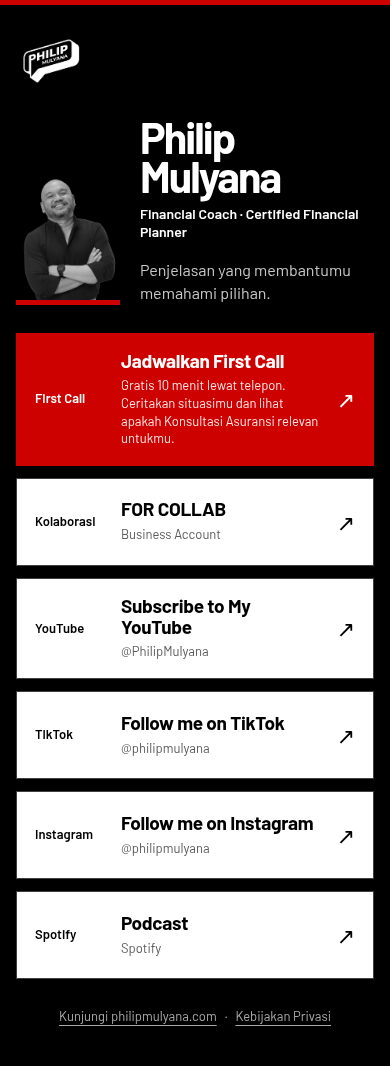
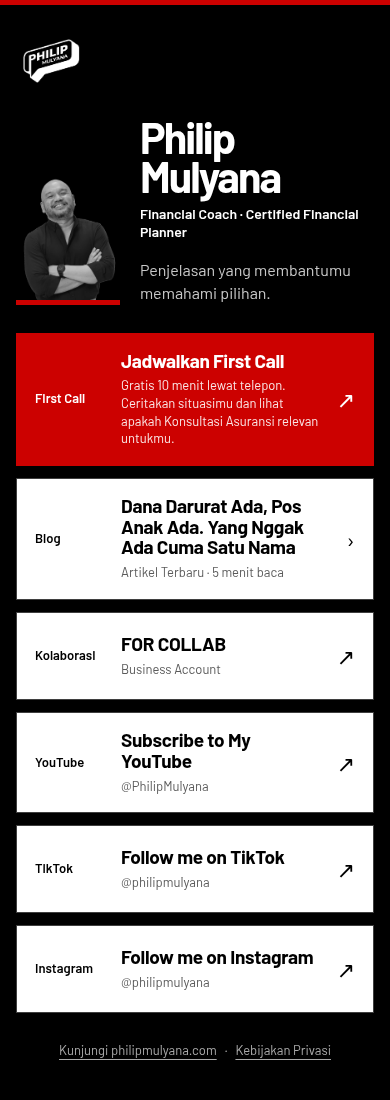
[verified] feat: show latest blog on links page

diff --git a/tests/links-latest-blog.test.js b/tests/links-latest-blog.test.js
@@ -1,0 +1,126 @@
+const test = require('node:test');
+const assert = require('node:assert/strict');
+const fs = require('node:fs');
+const path = require('node:path');
+const vm = require('node:vm');
+
+const root = path.resolve(__dirname, '..');
+const scriptPath = path.join(root, 'js', 'links.js');
+const linksSource = fs.existsSync(scriptPath) ? fs.readFileSync(scriptPath, 'utf8') : '';
+
+function jsonResponse(payload) {
+  return {
+    ok: true,
+    async json() {
+      return payload;
+    },
+  };
+}
+
+async function runUpdate({ payload, reject = false }) {
+  const link = { href: '/blog.html' };
+  const title = { textContent: 'Artikel Terbaru' };
+  const meta = { textContent: 'Blog & Insights' };
+  let domReadyHandler;
+  const document = {
+    addEventListener(event, handler) {
+      if (event === 'DOMContentLoaded') domReadyHandler = handler;
+    },
+    querySelector(selector) {
+      if (selector === '[data-latest-blog]') return link;
+      if (selector === '[data-latest-blog-title]') return title;
+      if (selector === '[data-latest-blog-meta]') return meta;
+      return null;
+    },
+  };
+  const fetch = async (url, options) => {
+    assert.equal(url, '/data/posts.json');
+    assert.equal(options?.cache, 'no-store');
+    if (reject) throw new Error('offline');
+    return jsonResponse(payload);
+  };
+  const context = vm.createContext({ document, fetch, Date, console });
+  vm.runInContext(linksSource, context);
+  assert.equal(typeof context.updateLatestBlog, 'function');
+  assert.equal(typeof domReadyHandler, 'function');
+  await context.updateLatestBlog();
+  return { link, title, meta };
+}
+
+test('shows the newest published blog even when posts.json is not ordered', async () => {
+  const result = await runUpdate({
+    payload: {
+      posts: [
+        { slug: 'artikel-lama', title: 'Artikel Lama', date: '2026-08-01', readingTime: '2 menit baca' },
+        { slug: 'artikel-terbaru', title: 'Artikel Terbaru Otomatis', date: '2026-09-18', readingTime: '5 menit baca' },
+      ],
+    },
+  });
+
+  assert.equal(result.link.href, '/blog/artikel-terbaru.html');
+  assert.equal(result.title.textContent, 'Artikel Terbaru Otomatis');
+  assert.equal(result.meta.textContent, 'Artikel Terbaru · 5 menit baca');
+});
+
+test('ignores a newer post when its slug is unsafe', async () => {
+  const result = await runUpdate({
+    payload: {
+      posts: [
+        { slug: 'javascript:alert-1', title: 'Tidak Aman', date: '2027-01-01' },
+        { slug: 'artikel-aman', title: 'Artikel Aman', date: '2026-09-18' },
+      ],
+    },
+  });
+
+  assert.equal(result.link.href, '/blog/artikel-aman.html');
+  assert.equal(result.title.textContent, 'Artikel Aman');
+  assert.equal(result.meta.textContent, 'Artikel Terbaru');
+});
+
+test('keeps the safe blog fallback when latest-post loading fails', async () => {
+  const result = await runUpdate({ payload: {}, reject: true });
+
+  assert.equal(result.link.href, '/blog.html');
+  assert.equal(result.title.textContent, 'Artikel Terbaru');
+  assert.equal(result.meta.textContent, 'Blog & Insights');
+});
+
+test('ignores malformed and impossible publication dates', async () => {
+  const result = await runUpdate({
+    payload: {
+      posts: [
+        { slug: 'tanggal-rusak', title: 'Tanggal Rusak', date: 'not-a-date' },
+        { slug: 'tanggal-mustahil', title: 'Tanggal Mustahil', date: '2027-02-30' },
+        { slug: 'tanggal-valid', title: 'Tanggal Valid', date: '2026-09-18' },
+      ],
+    },
+  });
+
+  assert.equal(result.link.href, '/blog/tanggal-valid.html');
+  assert.equal(result.title.textContent, 'Tanggal Valid');
+});
+
+test('keeps the fallback when every post has an invalid date', async () => {
+  const result = await runUpdate({
+    payload: { posts: [{ slug: 'tanpa-tanggal', title: 'Tanpa Tanggal', date: '' }] },
+  });
+
+  assert.equal(result.link.href, '/blog.html');
+  assert.equal(result.title.textContent, 'Artikel Terbaru');
+});
+
+test('ignores unreasonable title and reading-time values', async () => {
+  const result = await runUpdate({
+    payload: {
+      posts: [
+        { slug: 'judul-terlalu-panjang', title: 'X'.repeat(161), date: '2027-01-03' },
+        { slug: 'durasi-terlalu-panjang', title: 'Durasi Rusak', date: '2027-01-02', readingTime: '9'.repeat(41) },
+        { slug: 'konten-wajar', title: 'Konten Wajar', date: '2027-01-01', readingTime: '6 menit baca' },
+      ],
+    },
+  });
+
+  assert.equal(result.link.href, '/blog/konten-wajar.html');
+  assert.equal(result.title.textContent, 'Konten Wajar');
+  assert.equal(result.meta.textContent, 'Artikel Terbaru · 6 menit baca');
+});

diff --git a/links/index.html b/links/index.html
@@ -3,7 +3,7 @@
 <head>
   <meta charset="utf-8">
   <meta name="viewport" content="width=device-width, initial-scale=1">
-  <meta name="description" content="Link resmi Philip Mulyana untuk First Call, kolaborasi, video, media sosial, dan podcast.">
+  <meta name="description" content="Link resmi Philip Mulyana untuk First Call, artikel terbaru, kolaborasi, video, dan media sosial.">
   <meta name="robots" content="index, follow">
   <title>Philip Mulyana | Link Resmi</title>
   <link rel="canonical" href="https://philipmulyana.com/links/">
@@ -15,7 +15,7 @@
   <meta property="og:type" content="profile">
   <meta property="og:locale" content="id_ID">
   <meta property="og:title" content="Philip Mulyana | Link Resmi">
-  <meta property="og:description" content="First Call, kolaborasi, video, media sosial, dan podcast Philip Mulyana.">
+  <meta property="og:description" content="First Call, artikel terbaru, kolaborasi, video, dan media sosial Philip Mulyana.">
   <meta property="og:url" content="https://philipmulyana.com/links/">
   <meta property="og:image" content="https://philipmulyana.com/assets/homepage/profile-photo.webp">
   <script src="/js/sanitize-attribution.js"></script>
@@ -52,6 +52,12 @@
         <span class="link-arrow" aria-hidden="true">↗</span>
       </a>
 
+      <a class="link-item" href="/blog.html" data-latest-blog>
+        <span class="link-label">Blog</span>
+        <span class="link-copy"><strong data-latest-blog-title>Artikel Terbaru</strong><small data-latest-blog-meta>Blog &amp; Insights</small></span>
+        <span class="link-arrow" aria-hidden="true">›</span>
+      </a>
+
       <a class="link-item" href="https://wa.me/6281226604199">
         <span class="link-label">Kolaborasi</span>
         <span class="link-copy"><strong>FOR COLLAB</strong><small>Business Account</small></span>
@@ -76,11 +82,6 @@
         <span class="link-arrow" aria-hidden="true">↗</span>
       </a>
 
-      <a class="link-item" href="https://open.spotify.com/episode/5nSN7bUIm1I4uD7VmJt7EP">
-        <span class="link-label">Spotify</span>
-        <span class="link-copy"><strong>Podcast</strong><small>Spotify</small></span>
-        <span class="link-arrow" aria-hidden="true">↗</span>
-      </a>
     </nav>
 
     <footer class="links-footer">
@@ -91,5 +92,6 @@
   </main>
 
   <script src="/js/site.js" defer></script>
+  <script src="/js/links.js" defer></script>
 </body>
 </html>

diff --git a/js/links.js b/js/links.js
@@ -1,0 +1,58 @@
+function latestBlogTimestamp(post) {
+  return Date.parse(`${post.date}T00:00:00Z`);
+}
+
+function isValidPublicationDate(value) {
+  if (typeof value !== 'string') return false;
+  const match = /^(\d{4})-(\d{2})-(\d{2})$/.exec(value);
+  if (!match) return false;
+  const year = Number(match[1]);
+  const month = Number(match[2]);
+  const day = Number(match[3]);
+  const date = new Date(Date.UTC(year, month - 1, day));
+  return date.getUTCFullYear() === year
+    && date.getUTCMonth() === month - 1
+    && date.getUTCDate() === day;
+}
+
+function isSafePublishedPost(post) {
+  const title = typeof post?.title === 'string' ? post.title.trim() : '';
+  const readingTimeIsSafe = post?.readingTime == null || (
+    typeof post.readingTime === 'string'
+    && post.readingTime.trim().length <= 40
+  );
+  return Boolean(
+    post
+    && title
+    && title.length <= 160
+    && typeof post.slug === 'string'
+    && /^[a-z0-9-]+$/.test(post.slug)
+    && isValidPublicationDate(post.date)
+    && readingTimeIsSafe
+  );
+}
+
+async function updateLatestBlog() {
+  const link = document.querySelector('[data-latest-blog]');
+  const title = document.querySelector('[data-latest-blog-title]');
+  const meta = document.querySelector('[data-latest-blog-meta]');
+  if (!link || !title || !meta) return;
+
+  try {
+    const response = await fetch('/data/posts.json', { cache: 'no-store' });
+    if (!response.ok) return;
+    const data = await response.json();
+    const posts = Array.isArray(data.posts) ? data.posts.filter(isSafePublishedPost) : [];
+    const latest = posts.sort((a, b) => latestBlogTimestamp(b) - latestBlogTimestamp(a))[0];
+    if (!latest) return;
+
+    link.href = `/blog/${latest.slug}.html`;
+    title.textContent = latest.title.trim();
+    const readingTime = typeof latest.readingTime === 'string' ? latest.readingTime.trim() : '';
+    meta.textContent = readingTime ? `Artikel Terbaru · ${readingTime}` : 'Artikel Terbaru';
+  } catch {
+    // Keep the static /blog.html fallback when the local feed is unavailable.
+  }
+}
+
+document.addEventListener('DOMContentLoaded', updateLatestBlog);

diff --git a/assets/site/links.css b/assets/site/links.css
@@ -30,6 +30,7 @@ img{display:block;max-width:100%}
 .link-item-primary:hover{border-color:var(--white);background:#a90100}
 .link-label{font-size:13px;font-weight:600;line-height:1.2}
 .link-copy{display:block;min-width:0}
+.link-copy strong,.link-copy small{overflow-wrap:anywhere}
 .link-copy strong{display:block;font-size:19px;letter-spacing:-.015em;line-height:1.1}
 .link-copy small{display:block;margin-top:6px;color:#5b5b5b;font-size:13px;line-height:1.35}
 .link-item:hover .link-copy small{color:inherit;opacity:.82}

diff --git a/tests/test_links_page.py b/tests/test_links_page.py
@@ -75,17 +75,20 @@ class FirstPartyLinksPageContract(unittest.TestCase):
         stack = re.search(r'<nav\b[^>]*class="link-stack"[^>]*>.*?</nav>', self.html, re.S)
         self.assertIsNotNone(stack)
         assert stack is not None
-        actual = re.findall(r'<a\b[^>]*href="([^"]+)"[^>]*>.*?<strong>(.*?)</strong>', stack.group(0), re.S)
+        actual = re.findall(r'<a\b[^>]*href="([^"]+)"[^>]*>.*?<strong\b[^>]*>(.*?)</strong>', stack.group(0), re.S)
         actual = [(href, re.sub(r'<[^>]+>', '', label).strip()) for href, label in actual]
         expected = [
             ("https://calendly.com/philipmulyana/first-call", "Jadwalkan First Call"),
+            ("/blog.html", "Artikel Terbaru"),
             ("https://wa.me/6281226604199", "FOR COLLAB"),
             ("https://www.youtube.com/c/philipmulyana?sub_confirmation=1", "Subscribe to My YouTube"),
             ("https://www.tiktok.com/@philipmulyana", "Follow me on TikTok"),
             ("https://www.instagram.com/philipmulyana", "Follow me on Instagram"),
-            ("https://open.spotify.com/episode/5nSN7bUIm1I4uD7VmJt7EP", "Podcast"),
         ]
         self.assertEqual(actual, expected)
+        self.assertIn('data-latest-blog', stack.group(0))
+        self.assertIn('data-latest-blog-title', stack.group(0))
+        self.assertIn('data-latest-blog-meta', stack.group(0))
         self.assertEqual(self.html.count('data-forward-attribution'), 1)
         self.assertIn('href="/"', self.html)
 
@@ -97,6 +100,8 @@ class FirstPartyLinksPageContract(unittest.TestCase):
             "First call via WA call",
             "6282123391967",
             "Join philipmulyana on Linktree",
+            "Podcast",
+            "Spotify",
         )
         for token in forbidden:
             self.assertNotIn(token.lower(), self.html.lower())
@@ -113,6 +118,7 @@ class FirstPartyLinksPageContract(unittest.TestCase):
         self.assertLess(pixel, clarity)
         self.assertEqual(self.html.count('/js/pixel.js'), 1)
         self.assertIn('/js/site.js', self.html)
+        self.assertIn('/js/links.js', self.html)
         for dependency in (
             "cdn.tailwindcss.com", "fonts.googleapis.com", "linktr.ee/",
             "jquery", "bootstrap", "swiper", "slick",
@@ -129,6 +135,7 @@ class FirstPartyLinksPageContract(unittest.TestCase):
         self.assertIn('@media (min-width: 760px)', self.css)
         self.assertIn("font-family:'Barlow'", self.css)
         self.assertIn('.link-item-primary .link-copy small{color:inherit;opacity:.9}', self.css)
+        self.assertIn('.link-copy strong,.link-copy small{overflow-wrap:anywhere}', self.css)
         self.assertNotIn("overflow-x:auto", self.css.replace(" ", ""))
 
 
